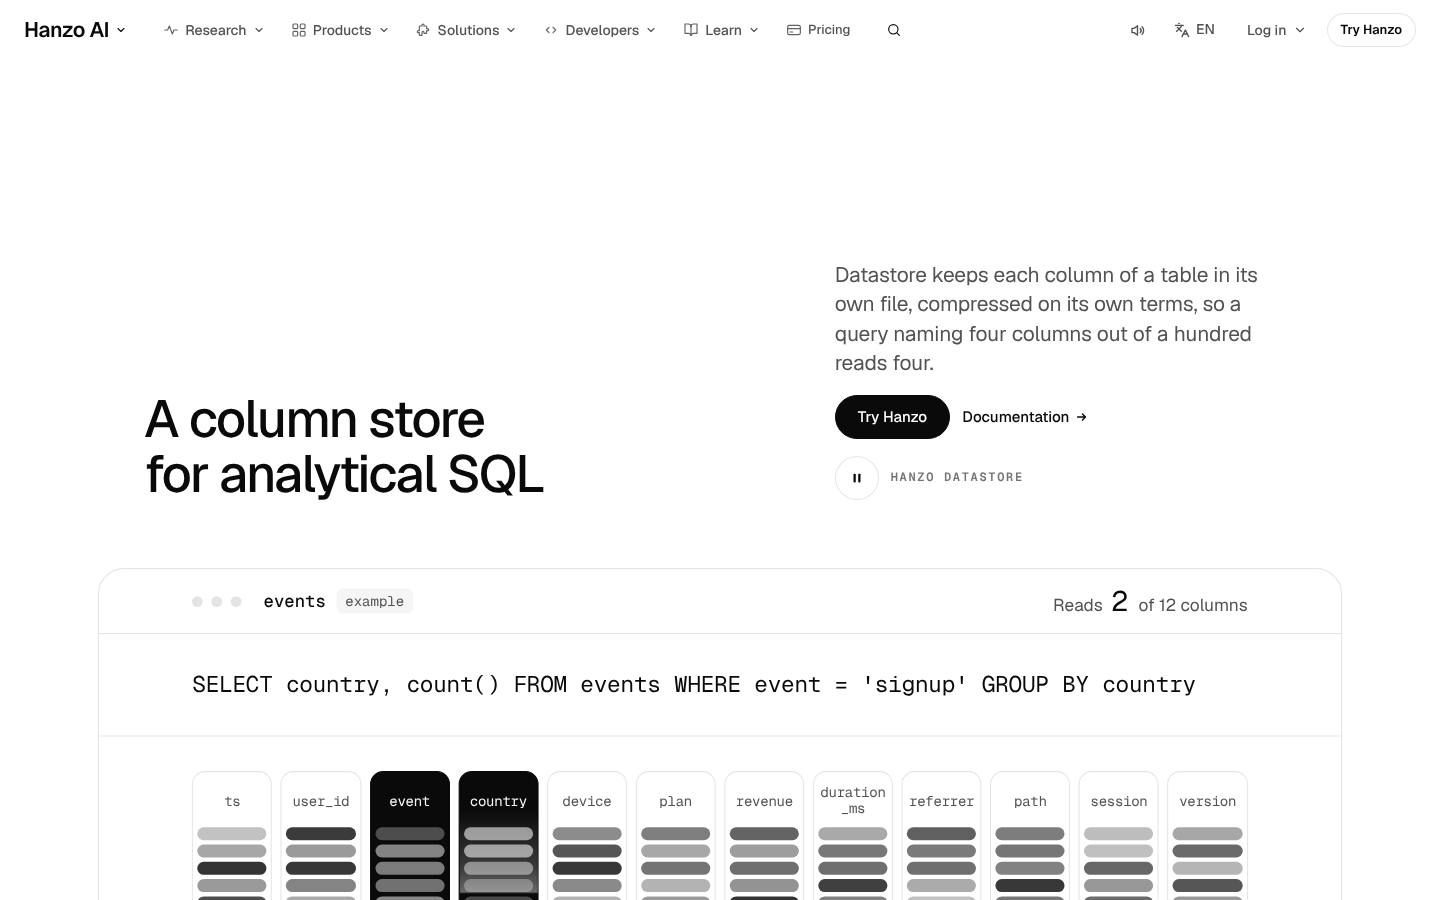
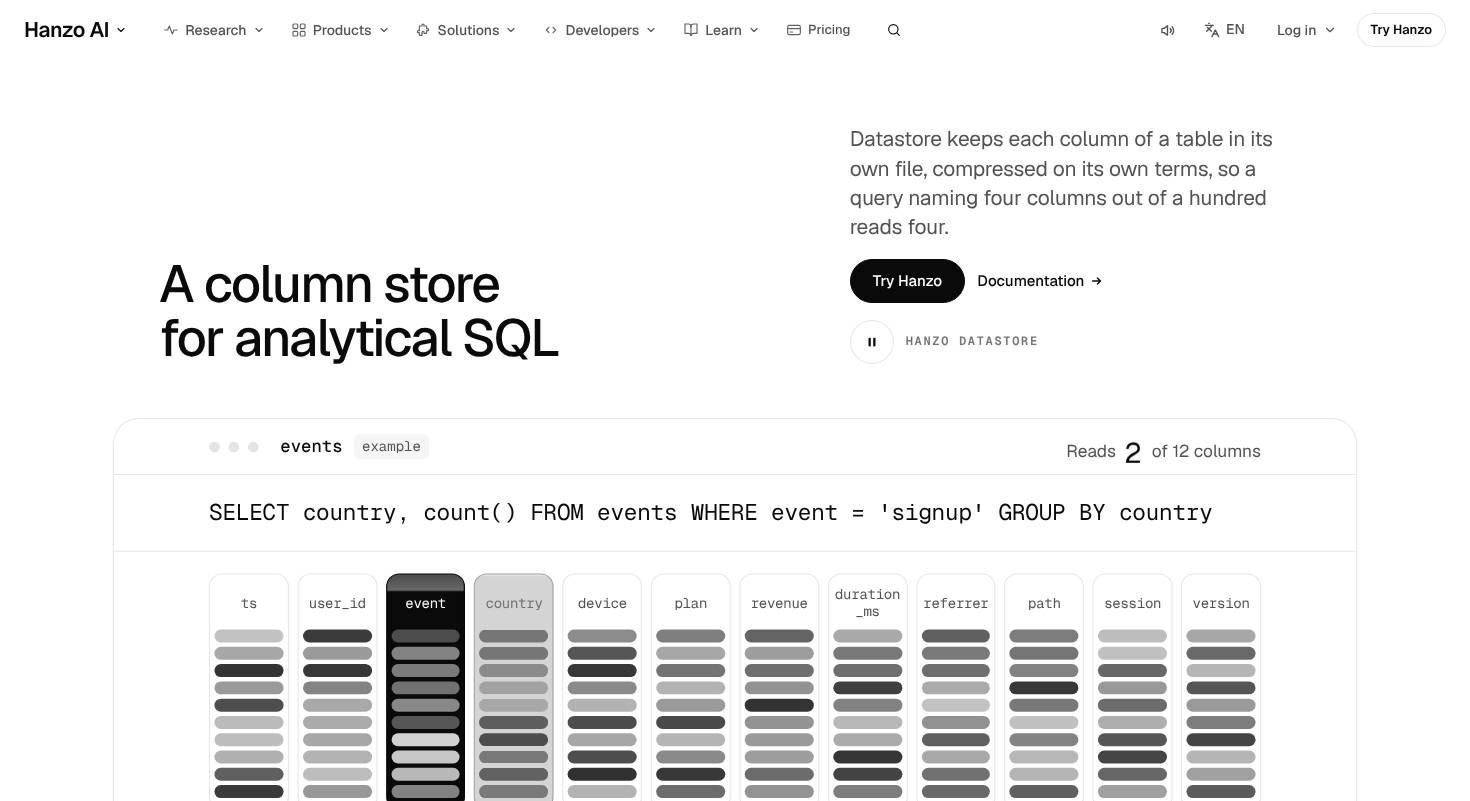
datastore: Ready — facts on a sideways rail (one pinned run), industries scanned row by row, solid hero ask, phone wraps fixed, three entrances
Claude-Session: https://claude.ai/code/session_01P5YBdx19ukLv4B41yE4M3v

diff --git a/components/pages/cloud/Datastore.css b/components/pages/cloud/Datastore.css
@@ -47,7 +47,7 @@
 .ds-s-file span { flex: 1; display: flex; flex-direction: column; gap: 5px; }
 .ds-s-file span i { flex: 1; min-height: 12px; border-radius: 6px; background: var(--ink); }
 .ds-s-file em { font: 400 14px/1 var(--mono); font-style: normal; text-align: center; color: #525252; padding: 8px 0 2px; border-top: 1px solid var(--hair); }
-.knc-v[data-on] .ds-s-file { animation: ds-file-in .5s var(--e-in) both; animation-delay: calc(var(--i) * 60ms); }
+:is(.knc-v, .ds-fact-v)[data-on] .ds-s-file { animation: ds-file-in .5s var(--e-in) both; animation-delay: calc(var(--i) * 60ms); }
 @keyframes ds-file-in { from { transform: translate3d(0, 16px, 0); } to { transform: none; } }
 
 .ds-nodes { display: grid; grid-template-columns: repeat(3, minmax(0, 1fr)); gap: 12px; }
@@ -94,7 +94,7 @@
 .ds-streams b { font: 606 14px/1 var(--mono); text-transform: lowercase; }
 .ds-streams i { position: relative; height: 2px; background: #d4d4d4; overflow: hidden; }
 .ds-streams i::after { content: ''; position: absolute; left: 0; top: 0; width: 18%; height: 100%; background: var(--ink); transform: translateX(-100%); }
-.knc-v[data-on] .ds-streams i::after { animation: ds-flow 1.5s linear 3; animation-delay: calc(var(--i) * .3s); }
+:is(.knc-v, .ds-fact-v)[data-on] .ds-streams i::after { animation: ds-flow 1.5s linear 3; animation-delay: calc(var(--i) * .3s); }
 @keyframes ds-flow { to { transform: translateX(560%); } }
 .ds-time { display: flex; flex-direction: column; gap: 10px; }
 .ds-time span { display: grid; grid-template-columns: repeat(8, minmax(0, 1fr)); gap: 4px; }
@@ -102,7 +102,7 @@
 .ds-mv { display: flex; flex-direction: column; gap: 10px; padding: 16px 18px; border-radius: 16px; background: #fff; }
 .ds-mv span { display: flex; align-items: flex-end; gap: 8px; height: 56px; }
 .ds-mv i { flex: 1; height: 100%; border-radius: 6px 6px 0 0; background: var(--ink); transform-origin: 50% 100%; transform: scaleY(var(--h)); }
-.knc-v[data-on] .ds-mv i { animation: ds-roll .9s var(--e-move) 3 alternate both; animation-delay: calc(var(--j) * .12s); }
+:is(.knc-v, .ds-fact-v)[data-on] .ds-mv i { animation: ds-roll .9s var(--e-move) 3 alternate both; animation-delay: calc(var(--j) * .12s); }
 @keyframes ds-roll { from { transform: scaleY(calc(var(--h) * .8)); } to { transform: scaleY(var(--h)); } }
 
 .ds-ports { list-style: none; margin: 0; padding: 0; border-top: 1px solid var(--ink); }
@@ -277,4 +277,113 @@ html:not(.js) .ds-x-rail { display: none; }
   .ds-beam, .ds-streams i::after, .ds-mv i, .ds-s-file, .ds-q-n b, .ds-tile b, .ds-port-w span { animation: none !important; }
   .ds-beam { opacity: .6; transform: translate3d(0, 80%, 0); }
   .ds-x-say, .ds-x-col, .ds-x-part, .ds-x-parts, .ds-x-codec, .ds-node, .ds-bucket, .ds-dn i { transition: none !important; }
+}
+
+/* ---------- round 4 (8 Nov) ---------- */
+/* the first screen: the console's column files sit inside 1470x801, and the hero ask is the one solid fill */
+@media (min-width: 900px) {
+  .ds > .kns { padding-top: clamp(32px, calc(24svh - 128px), 110px); padding-bottom: clamp(44px, 5vw, 72px); }
+  .ds > .kns .kns-g { row-gap: 32px; }
+  .ds-q-bar { min-height: 52px; }
+  .ds-q-sql { padding-top: 20px; padding-bottom: 20px; min-height: 0; }
+  .ds-files { padding-top: 20px; }
+}
+.ds .kns-acts .x-btn:not(.solid) { background-color: var(--btn-solid-bg, #0a0a0a); border-color: var(--btn-solid-bg, #0a0a0a); color: var(--btn-solid-ink, #fff); }
+@media (hover: hover) { .ds .kns-acts .x-btn:not(.solid):hover { background-color: var(--btn-solid-hover, #262626); border-color: var(--btn-solid-hover, #262626); } }
+.ds .kns-acts .x-btn:active { transform: scale(.98); }
+/* text links answer: underline and the arrow steps */
+@media (hover: hover) {
+  .ds .x-arrow svg { transition: transform .15s cubic-bezier(0, 0, .2, 1); }
+  .ds .x-arrow:hover svg { transform: translateX(4px); }
+  .ds .x-arrow:hover span { text-decoration: underline; text-decoration-thickness: 1px; text-underline-offset: 3px; }
+}
+.ds .x-arrow:active { transform: translateY(1px); }
+
+/* What it does: the sideways rail */
+.ds-facts { overflow: hidden; }
+.ds-facts .ds-ch-head { padding-bottom: 44px; }
+.ds-rail { --pad: max(var(--kn-g), calc((100vw - 1152px) / 2)); list-style: none; margin: 0; padding: 0 var(--pad) 8px; display: flex; gap: 24px; overflow-x: auto; scroll-snap-type: x mandatory; scroll-padding-inline: var(--pad); scrollbar-width: none; overscroll-behavior-x: contain; cursor: grab; }
+.ds-rail::-webkit-scrollbar { display: none; }
+.ds-rail[data-drag] { scroll-snap-type: none; cursor: grabbing; user-select: none; }
+.ds-fact { flex: none; width: min(520px, 84vw); scroll-snap-align: start; display: flex; flex-direction: column; gap: 12px; }
+.ds-fact-v { height: 340px; border-radius: 24px; overflow: hidden; background: #f5f5f5; transition: transform .5s var(--e-move); }
+.ds-fact-v > * { height: 100%; }
+.ds-fact-n { margin: 12px 0 0; font: 606 12px/1 var(--mono); letter-spacing: .14em; color: #737373; }
+.ds-fact-t { margin: 0; font-size: 21px; font-weight: 497; letter-spacing: -.015em; color: var(--ink); }
+.ds-fact-d { margin: 0; font-size: 16px; line-height: 1.6; color: #525252; max-width: 52ch; }
+@media (hover: hover) { .ds-fact:hover .ds-fact-v { transform: translateY(-4px); } .ds-fact:hover .ds-fact-n { color: var(--ink); } }
+.ds-rail-ctl { display: flex; align-items: center; gap: 12px; padding-top: 27px; }
+.ds-rail-track { position: relative; flex: 1; height: 1px; background: var(--hair); overflow: hidden; }
+.ds-rail-track i { position: absolute; left: 0; top: 0; height: 100%; width: calc(100% / 6); background: var(--ink); transform: translateX(calc(var(--at) * 100%)); transition: transform .4s var(--e-move); }
+.ds-rail-at { margin: 0 8px 0 12px; font: 497 13px/1 var(--mono); color: #525252; }
+.ds-rail-b { display: grid; place-items: center; width: 48px; height: 48px; border-radius: 50%; border: 1px solid var(--hair); background: #fff; color: var(--ink); cursor: pointer; transition: background-color .2s var(--e-out), border-color .2s var(--e-out), color .2s var(--e-out), transform .15s var(--e-out); }
+@media (hover: hover) { .ds-rail-b:not(:disabled):hover { background: var(--ink); border-color: var(--ink); color: #fff; } }
+.ds-rail-b:not(:disabled):active { transform: scale(.96); }
+.ds-rail-b:disabled { color: #a3a3a3; cursor: default; }
+.ds-rail-b:focus-visible { outline: 2px solid var(--focus, var(--ink)); outline-offset: 2px; }
+
+/* the industries: the scan passes over the wall, a row at a time */
+.ds-index li { position: relative; color: #737373; transition: color .3s var(--e-move); cursor: default; }
+.ds-index li[data-on] { color: var(--ink); }
+.ds-index li[data-on] > span { color: var(--ink); }
+.ds-index-b { margin-left: auto; align-self: center; display: flex; gap: 3px; padding-left: 12px; }
+.ds-index-b b { width: 6px; height: 14px; border-radius: 3px; background: var(--ink); transform: scaleY(.35); transform-origin: 50% 100%; transition: transform .35s var(--e-move); }
+.ds-index li[data-on] .ds-index-b b { transform: none; }
+.ds-index li[data-on] .ds-index-b b:nth-child(2) { transition-delay: .04s; } .ds-index li[data-on] .ds-index-b b:nth-child(3) { transition-delay: .08s; }
+.ds-index li[data-on] .ds-index-b b:nth-child(4) { transition-delay: .12s; } .ds-index li[data-on] .ds-index-b b:nth-child(5) { transition-delay: .16s; } .ds-index li[data-on] .ds-index-b b:nth-child(6) { transition-delay: .2s; }
+.ds-index li::before { content: ''; position: absolute; left: 0; right: 0; top: -1px; height: 1px; background: var(--ink); transform: scaleX(0); transform-origin: 0 50%; transition: transform .5s var(--e-move); }
+.ds-index li[data-on]::before { transform: none; }
+html:not(.js) .ds-index li { color: var(--ink); }
+
+/* entrances (arrive.js: data-arm below the fold, data-in on arrival; JS off and reduced motion: the final state) */
+/* spiral-in: the fact cards turn in from the right edge along a curve, one after another */
+.ds-rail[data-arm]:not([data-in]) .ds-fact { opacity: 0; transform: translate(60vw, 120px) rotate(24deg) scale(.7); }
+.ds-rail[data-in] .ds-fact { animation: ds-spiral 1s cubic-bezier(.16, 1, .3, 1) both; animation-delay: calc(var(--k) * 90ms); }
+@keyframes ds-spiral { 0% { opacity: 0; transform: translate(60vw, 120px) rotate(24deg) scale(.7); } 30% { opacity: 1; } 60% { transform: translate(6vw, -18px) rotate(-3deg) scale(.96); } 100% { opacity: 1; transform: none; } }
+/* rack-focus: the wall comes into focus, top rows first */
+.ds-index[data-arm]:not([data-in]) { filter: blur(10px); opacity: .3; }
+.ds-index[data-in] { animation: ds-rack 1.1s cubic-bezier(.4, 0, .2, 1) both; }
+@keyframes ds-rack { from { filter: blur(10px); opacity: .3; } 60% { filter: blur(1px); opacity: 1; } to { filter: none; opacity: 1; } }
+/* squash-land: the port card lands with a squash and settles */
+.ds-port[data-arm]:not([data-in]) { opacity: 0; transform: translateY(-80px); }
+.ds-port[data-in] { transform-origin: 50% 100%; animation: ds-squash .9s both; }
+@keyframes ds-squash { 0% { opacity: 0; transform: translateY(-80px) scale(.96, 1.06); animation-timing-function: cubic-bezier(.5, 0, .9, .5); } 45% { opacity: 1; transform: translateY(0) scale(1.05, .93); animation-timing-function: cubic-bezier(.2, .8, .4, 1); } 70% { transform: translateY(-6px) scale(.99, 1.02); } 100% { opacity: 1; transform: none; } }
+
+@media (max-width: 899px) {
+  .ds-fact-v { height: 300px; border-radius: 20px; }
+  .ds-fact-t { font-size: 19px; }
+  .ds-rail { gap: 12px; }
+  .ds-rail-at { margin: 0 4px; font-size: 14px; }
+  .ds-index-b { display: none; }
+  /* the console: three files a row, so duration_ms reads on one line */
+  .ds-files { grid-template-columns: repeat(3, minmax(0, 1fr)); }
+  .ds-blocks i:nth-child(n + 7) { display: none; }
+  .ds-name { letter-spacing: -.02em; }
+  .ds-x-name { height: 112px; }
+}
+@media (prefers-reduced-motion: reduce) {
+  .ds .kns-in, .ds .kns-obj-in, .ds .knl-t, .ds-q-n b { animation: none !important; }
+  .ds-fact-v, .ds-index li, .ds-index-b b, .ds-index li::before, .ds-rail-track i { transition: none !important; }
+}
+@media (max-width: 899px) {
+  .ds-name { flex-wrap: nowrap; white-space: nowrap; letter-spacing: -.04em; }
+  /* the four column files as two by two inside a phone card, so each codec reads whole */
+  .ds-fact .ds-s-cols { display: grid; grid-template-columns: repeat(2, minmax(0, 1fr)); gap: 8px; padding: 14px; }
+  .ds-fact .ds-s-file { max-width: none; gap: 6px; padding: 8px 10px; }
+  .ds-fact .ds-s-file span { gap: 3px; }
+  .ds-fact .ds-s-file span i { min-height: 4px; height: auto; }
+  .ds-fact .ds-s-file em { padding-top: 6px; overflow-wrap: normal; }
+}
+/* every fact's picture fits its card whole */
+.ds-fact-v { height: 392px; }
+.ds-fact .ds-sc { padding: 28px; gap: 20px; }
+.ds-fact .ds-dn { padding: 16px 12px; gap: 12px; }
+.ds-fact .ds-dn i { height: 48px; }
+.ds-fact .ds-bucket { height: 64px; }
+.ds-fact .ds-raft { width: min(100%, 340px); }
+@media (max-width: 899px) {
+  .ds-fact-v { height: 340px; }
+  .ds-fact .ds-sc { padding: 16px; gap: 14px; }
+  .ds-fact .ds-dn i { height: 32px; }
+  .ds-fact .ds-bucket { height: 52px; }
 }

diff --git a/components/pages/cloud/Datastore.jsx b/components/pages/cloud/Datastore.jsx
@@ -11,6 +11,10 @@
    scroll: the rows come apart into column files (read only what the query names), one column's values line up for a
    vector instruction, each column splits into its sorted parts with a contiguous run in ink, and every column shrinks
    by its own codec (deltas, dictionary, general). Phones play the same four states once by themselves, or by tap.
+   What it does: six facts on one sideways rail (snap, drag, arrows), so only the exploded table pins. The industries are
+   a wall the scan passes over, row by row (or the row you point at).
+   Entrances (docs/MOTION-MAP.md, arrive.js arms them below the fold): spiral-in (the fact cards), rack-focus (the
+   industries), squash-land (the port board).
    Supporting: the Stage hero (the query console settles as you scroll, scanning by itself), six pinned facts that scale
    in (words left), and the closing dark room.
    Beyond: "Which way in?": pick how you connect (HTTP, the native protocol, or the MySQL and PostgreSQL wire ports) and
@@ -19,18 +23,26 @@
    Every word and link is Hanzo's; the example table's cells carry no values. */
 import { useEffect, useRef, useState } from 'react';
 import { useScroll, useMotionValueEvent, useInView } from 'motion/react';
-import { useLive } from './Frame';
 import { useCalm } from '../../ui';
+import { useArrivals } from './arrive';
 import { scrollToY } from '../../../lib/scroll';
 import KeynoteStage, { useStagePause } from './SafeStage';
-import KeynoteChapters, { useWide } from '../../v2/KeynoteChapters';
+import { useWide } from '../../v2/KeynoteChapters';
 import KeynoteLines from '../../v2/KeynoteLines';
-import KeynoteClose from '../../v2/KeynoteClose';
+import KeynoteClose from './SafeClose';
 import './Datastore.css';
 
 const COLS = ['ts', 'user_id', 'event', 'country', 'device', 'plan', 'revenue', 'duration_ms', 'referrer', 'path', 'session', 'version'];
 const AUTO = [[], ['country'], ['country', 'device'], ['plan'], []];
 const shade = (a, b) => Math.abs(Math.sin(a * 12.9898 + b * 78.233) * 43758.5453) % 1;
+
+/* [ref, live, calm]: live while seen and motion is allowed (hydration-safe: useCalm is false on the first render) */
+function useLive(amount = 0.2) {
+  const ref = useRef(null);
+  const seen = useInView(ref, { amount });
+  const calm = useCalm();
+  return [ref, seen && !calm, calm];
+}
 
 /* The hero object: the query console. Press a column and it joins the query; the scan runs down only the named files. */
 function Query() {
@@ -212,6 +224,79 @@ function ProtoScene() {
 
 const SCENES = [ColScene, ShardScene, RaftScene, DiskScene, ShapeScene, ProtoScene];
 
+/* What it does: six facts on one sideways rail (no second pinned run before the exploded table). Each card's picture
+   plays while the card is seen; the rail snaps card by card, drags with a mouse, and steps with the arrows. */
+function Fact({ i, t, d }) {
+  const ref = useRef(null);
+  const on = useInView(ref, { amount: 0.6 });
+  const S = SCENES[i];
+  return (
+    <li ref={ref} className="ds-fact" style={{ '--k': i }}>
+      <div className="ds-fact-v" data-on={on ? '' : undefined}><S on={on} p={null} /></div>
+      <p className="ds-fact-n kn-fig">{String(i + 1).padStart(2, '0')} / 06</p>
+      <h3 className="kn-title ds-fact-t">{t}</h3>
+      <p className="ds-fact-d">{d}</p>
+    </li>
+  );
+}
+function Facts() {
+  const track = useRef(null);
+  const drag = useRef(null);
+  const [at, setAt] = useState(0);
+  const [ends, setEnds] = useState([true, false]);
+  const read = () => {
+    const el = track.current;
+    if (!el) return;
+    const w = el.firstElementChild?.offsetWidth || 1;
+    setAt(Math.min(DOES.length - 1, Math.round(el.scrollLeft / (w + 24))));
+    setEnds([el.scrollLeft < 8, el.scrollLeft > el.scrollWidth - el.clientWidth - 8]);
+  };
+  const step = (d) => {
+    const el = track.current;
+    const w = el.firstElementChild.offsetWidth + 24;
+    el.scrollBy({ left: d * w, behavior: matchMedia('(prefers-reduced-motion: reduce)').matches ? 'auto' : 'smooth' });
+  };
+  const down = (e) => {
+    if (e.pointerType !== 'mouse' || e.button !== 0) return;
+    const el = track.current;
+    drag.current = { x: e.clientX, l: el.scrollLeft, moved: false };
+    el.setAttribute('data-drag', '');
+  };
+  const move = (e) => {
+    const g = drag.current;
+    if (!g) return;
+    const dx = e.clientX - g.x;
+    if (Math.abs(dx) > 4) g.moved = true;
+    track.current.scrollLeft = g.l - dx;
+  };
+  const up = () => {
+    const g = drag.current;
+    if (!g) return;
+    drag.current = null;
+    const el = track.current;
+    el.removeAttribute('data-drag');
+    const w = el.firstElementChild.offsetWidth + 24;
+    el.scrollTo({ left: Math.round(el.scrollLeft / w) * w, behavior: 'smooth' });
+  };
+  return (
+    <section className="kn-sec ds-facts" aria-labelledby="ds-facts-h">
+      <div className="kn-wrap kn-grid ds-ch-head">
+        <KeynoteLines id="ds-facts-h" className="kn-headline ds-ch-h" lines="What it does" />
+        <p className="kn-lede ds-ch-l">Scan a great many rows. Return a small answer. Do it while the rows are still arriving.</p>
+      </div>
+      <ol ref={track} className="ds-rail" data-enter="spiral" onScroll={read} onPointerDown={down} onPointerMove={move} onPointerUp={up} onPointerLeave={up}>
+        {DOES.map(([t, d], i) => <Fact key={t} i={i} t={t} d={d} />)}
+      </ol>
+      <div className="kn-wrap ds-rail-ctl">
+        <span className="ds-rail-track" aria-hidden="true"><i style={{ '--at': at }} /></span>
+        <p className="ds-rail-at kn-fig" aria-hidden="true">{String(at + 1).padStart(2, '0')} / 06</p>
+        <button type="button" className="ds-rail-b" aria-label="Previous" disabled={ends[0]} onClick={() => step(-1)}><svg viewBox="0 0 16 16" width="16" height="16" aria-hidden="true"><path d="M13 8H4M7.5 4.5 4 8l3.5 3.5" fill="none" stroke="currentColor" strokeWidth="1.6" strokeLinecap="round" strokeLinejoin="round" /></svg></button>
+        <button type="button" className="ds-rail-b" aria-label="Next" disabled={ends[1]} onClick={() => step(1)}><svg viewBox="0 0 16 16" width="16" height="16" aria-hidden="true"><path d="M3 8h9M8.5 4.5 12 8l-3.5 3.5" fill="none" stroke="currentColor" strokeWidth="1.6" strokeLinecap="round" strokeLinejoin="round" /></svg></button>
+      </div>
+    </section>
+  );
+}
+
 /* The signature: a table pulled apart into its layers as you scroll. */
 const XC = [['ts', 'deltas', 0.3], ['user_id', 'general', 0.52], ['event', 'dictionary', 0.34], ['country', 'dictionary', 0.4], ['device', 'dictionary', 0.32], ['plan', 'dictionary', 0.28], ['revenue', 'general', 0.5], ['duration_ms', 'general', 0.48]];
 const PARTS = 4, PER = 4;
@@ -309,7 +394,17 @@ function Explode() {
 
 const INDUSTRIES = ['Web and app analytics', 'E-commerce and finance', 'Time series', 'Advertising networks and RTB', 'Information security', 'Business intelligence', 'Telecommunications', 'Monitoring and telemetry', 'Online games', 'Internet of Things (IoT)', 'Observability', 'User behavior analytics'];
 
+/* the twelve industries as a wall the scan passes over: one row at a time is read (in order while seen, or the row
+   under the pointer), its blocks light the way the hero's column files do */
 function Who() {
+  const [ref, live] = useLive(0.3);
+  const [at, setAt] = useState(0);
+  const [hot, setHot] = useState(-1);
+  useEffect(() => {
+    if (!live || hot >= 0) return;
+    const t = setTimeout(() => setAt((v) => (v + 1) % INDUSTRIES.length), 1400);
+    return () => clearTimeout(t);
+  }, [at, live, hot]);
   return (
     <section className="kn-sec ds-who">
       <div className="kn-wrap kn-grid ds-who-g">
@@ -317,7 +412,14 @@ function Who() {
           <KeynoteLines className="kn-headline" lines={['What people', 'point it at']} />
           <p className="kn-body">Different industries, the same shape of problem: a great many rows in, a small answer out, asked again a second later.</p>
         </div>
-        <ol className="ds-index">{INDUSTRIES.map((t, i) => <li key={t}><span className="kn-fig">{String(i + 1).padStart(2, '0')}</span>{t}</li>)}</ol>
+        <ol className="ds-index" ref={ref} data-enter="rack" onPointerLeave={() => setHot(-1)}>
+          {INDUSTRIES.map((t, i) => (
+            <li key={t} data-on={(hot >= 0 ? hot : at) === i ? '' : undefined} onPointerEnter={(e) => e.pointerType === 'mouse' && setHot(i)}>
+              <span className="kn-fig">{String(i + 1).padStart(2, '0')}</span>{t}
+              <i className="ds-index-b" aria-hidden="true">{Array.from({ length: 6 }).map((_, j) => <b key={j} style={{ opacity: (0.2 + shade(i + 7, j) * 0.6).toFixed(2) }} />)}</i>
+            </li>
+          ))}
+        </ol>
       </div>
     </section>
   );
@@ -359,7 +461,7 @@ function Ways() {
             {WAYS.map(([n], i) => <button key={n} type="button" role="radio" aria-checked={at === i} onClick={() => setAt(i)}>{n}</button>)}
           </div>
         </div>
-        <div className="ds-port" aria-live="polite">
+        <div className="ds-port" aria-live="polite" data-enter="squash">
           <p className="ds-port-k">{name}{port ? ' · port' : ' · wire port'}</p>
           {port ? <Board value={port} /> : <p className="ds-port-w"><span key={name}>{name}</span></p>}
           <p className="ds-port-l">{line}</p>
@@ -371,8 +473,10 @@ function Ways() {
 }
 
 export default function Datastore() {
+  const root = useRef(null);
+  useArrivals(root);
   return (
-    <main className="kn ds">
+    <main className="kn ds" ref={root}>
       <KeynoteStage
         kick="Hanzo Datastore"
         title={['A column store', 'for analytical SQL']}
@@ -384,21 +488,7 @@ export default function Datastore() {
         <Query />
       </KeynoteStage>
 
-      <KeynoteChapters
-        className="ds-ch"
-        side="left"
-        swap="scale"
-        count
-        tall={85}
-        head={
-          <div className="kn-grid ds-ch-head">
-            <KeynoteLines className="kn-headline ds-ch-h" lines="What it does" />
-            <p className="kn-lede ds-ch-l">Scan a great many rows. Return a small answer. Do it while the rows are still arriving.</p>
-          </div>
-        }
-        items={DOES.map(([t, d]) => ({ title: t, body: <p>{d}</p> }))}
-        visual={(i, on, p) => { const S = SCENES[i]; return <S on={on} p={p} />; }}
-      />
+      <Facts />
 
       <Explode />
       <Who />

diff --git a/docs/review/datastore.md b/docs/review/datastore.md
@@ -1,4 +1,5 @@
 # /datastore — James-eye review
+Ready: 2026-11-08 middle shortened: "What it does" is now a sideways snap rail (drag, arrows, counter; each picture plays while seen), so only the exploded table pins; the twelve industries are a wall the scan passes over row by row (pointer picks a row); hero console files inside 1470x801 and Try Hanzo solid; Documentation/Self-host hovers; phone console 3-up so duration_ms reads whole, phone CLS 0; entrances spiral-in, rack-focus, squash-land; reduced motion 0 animations, 0 hydration errors; taste OK, parity 78/78 + 5/5, unique OK, check 0 errors/0 overlaps/no h-scroll at 1470 and 375.
 7 Nov. Walked moving at 1470x801 and 375x812 (phone: isMobile, hasTouch) with Playwright on this worktree's dev server (:4182). At each size: frames at 0, 1 and 3 s with no input, then wheel scrolls of 0.85 of a screen with a 1.5 s dwell to the footer, hover and press on every control in `main` on desktop, taps on phone (a column in the hero console). Measured CLS, horizontal overflow and console output. Component: `components/pages/cloud/Datastore.jsx`.
 
 Verdict: 7/10
